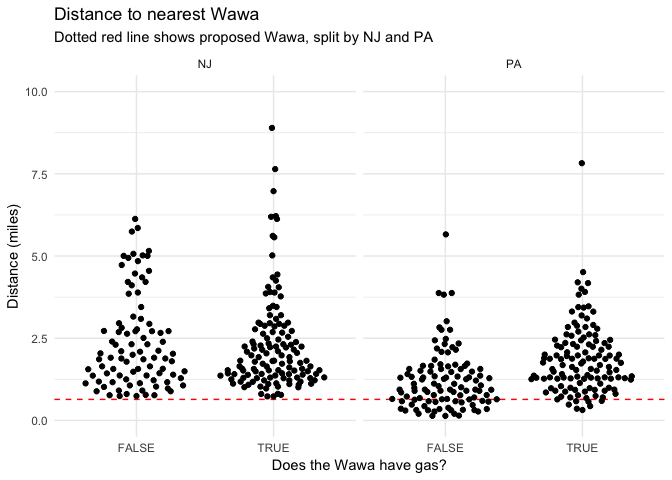
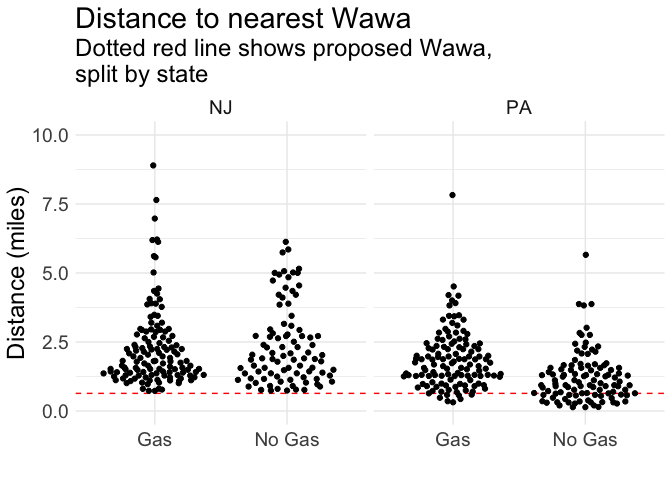
make read better

diff --git a/wawa_report.md b/wawa_report.md
@@ -18,19 +18,6 @@ There are also two other Wawa locations already in close proximity.
 -   Are other Super Wawa locations in similar areas?
 -   Are other Super Wawa locations this close to other Wawas?
 
-``` r
-# Load in data previously generated by '01_wawadata.R', '03_osmdata.R'
-wawa_df <- readRDS('data/wawa_df.Rds')
-osm_df <- readRDS('data/osm_df.Rds')
-
-# Have col names lat state city in both
-wawa_osm <- cbind(rename(wawa_df, lat_wawa = lat, lon_wawa = long, state_ab = state), 
-                  rename(osm_df, osm_city = city))
-
-wawa_osm$maxspeed_num <- as.numeric(gsub(" mph","",wawa_osm$maxspeed))
-wawa_osm$lanes_num <- as.numeric(wawa_osm$lanes)
-```
-
 Step 1: Query data on Wawa locations in Northeast
 -------------------------------------------------
 
@@ -42,26 +29,10 @@ Retrieved the Wawa locations from wawa.com for the area around Glenside, PA. *Re
 
 Here is a map of all the locations in the dataset:
 
-``` r
-mapdf <- wawa_df[,c("long","lat")]
-mapdf$new <- c(rep("exists",nrow(wawa_df)-1),"new")
-
-# getting the map
-mapgilbert <- get_map(location = c(lon = mean(mapdf$long), lat = mean(mapdf$lat)), zoom = 8,
-                      maptype = "hybrid", scale = 2)
-```
-
     ## Source : https://maps.googleapis.com/maps/api/staticmap?center=39.985222,-75.074544&zoom=8&size=640x640&scale=2&maptype=hybrid&language=en-EN&key=xxx
 
     ## Warning in strptime(x, fmt, tz = "GMT"): unknown timezone 'zone/tz/2019a.
     ## 1.0/zoneinfo/America/New_York'
-
-``` r
-# plotting the map with some points on it
-ggmap(mapgilbert) +
-  geom_point(data = mapdf, aes(x = long, y = lat, fill = new, alpha = 0.9), size = 2, shape = 21) +
-  guides(fill=FALSE, alpha=FALSE, size=FALSE)
-```
 
 ![](wawa_report_files/figure-markdown_github-ascii_identifiers/unnamed-chunk-2-1.png)
 
@@ -69,25 +40,7 @@ ggmap(mapgilbert) +
 
 The proposed Wawa is at [200 S Easton Rd.](https://www.google.com/maps/place/200+S+Easton+Rd,+Glenside,+PA+19038/@40.0986321,-75.1580774,17z/data=!3m1!4b1!4m5!3m4!1s0x89c6ba0ab50e862d:0xda87770daaf8ea23!8m2!3d40.098628!4d-75.1558834)
 
-``` r
-# ZOOM in on new wawa
-new_wawa <- data.frame(long = c(-75.155848, -75.155848-0.005, -75.155848+0.005),
-                       lat = c(40.098564, 40.098564-0.005, 40.098564+0.005))
-map_new <- get_map(location = c(lon = new_wawa$long[1], lat = new_wawa$lat[2]), zoom = 15,
-                      maptype = "hybrid", scale = 2)
-```
-
     ## Source : https://maps.googleapis.com/maps/api/staticmap?center=40.093564,-75.155848&zoom=15&size=640x640&scale=2&maptype=hybrid&language=en-EN&key=xxx
-
-``` r
-# plotting the map with some points on it
-ggmap(map_new) +
-  geom_point(data = new_wawa, aes(x = long, y = lat, fill = "red", alpha = 0.9), size = 2, shape = 21) +
-  guides(fill=FALSE, alpha=FALSE, size=FALSE) + 
-  scale_y_continuous(limits = c(40.098564-0.005, 40.098564+0.005)) +
-  scale_x_continuous(limits = c(-75.155848-0.005, -75.155848+0.005)) +
-  NULL
-```
 
     ## Scale for 'y' is already present. Adding another scale for 'y', which
     ## will replace the existing scale.
@@ -115,34 +68,16 @@ Step 2: Annotate Wawa locations with data from OpenStreetMaps
 -   Considered 'highway=motorways' as highways (<https://wiki.openstreetmap.org/wiki/Key:highway>)
 -   Considered 'footway=sidewalk' as sidewalks
 
-*These results could be sensitive to the area selected. Here I used a 0.01 degree latitude and longitude rectangle centered around the location. This is approximately a 0.69 x 0.53 mile rectangle. See above map for the area around the proposed Wawa as an example.*
+*These results could be sensitive to the size of the area selected. Here I used a 0.01 degree latitude and longitude rectangle centered around the location. This is approximately a 0.69 x 0.53 mile rectangle. See above map for the area around the proposed Wawa as an example.*
 
-Results: The new Wawa will be close to other Wawa locations
------------------------------------------------------------
+Results: The new Wawa will be unusually close to another Wawa location
+----------------------------------------------------------------------
 
 The distance to the nearest Wawa from each Wawa location was calculated in meters. The shortest distance between the Wawa coordinates was calculated according to the 'Vincenty (ellipsoid)' method as implemented in the 'geosphere' R package.
-
-``` r
-new_dist <- wawa_df$min_dist_wawa[wawa_df$storeName=="NEW"]
-```
 
 The closest Wawa to the proposed location will be 1028.0010513 meters from the nearest Wawa. That is 0.6387718 miles.
 
 The median distance between locations is 2645.1198825 meters.
-
-``` r
-wawa_df %>% filter(state %in% c("NJ","PA")) %>% 
-  ggplot(aes(x=fuel, y=min_dist_wawa/1609.34)) + 
-  geom_hline(yintercept = new_dist/1609.34, color="red", linetype = 2) + 
-  # geom_boxplot(outlier.shape = NA) + geom_jitter(height = 0, width = 0.2, alpha=0.5) + 
-  ggbeeswarm::geom_quasirandom() + 
-  facet_wrap(~state) +
-  ylim(c(0,10)) +
-  labs(title = "Distance to nearest Wawa", 
-       subtitle = "Dotted red line shows proposed Wawa, split by NJ and PA",
-       y="Distance (miles)", x="Does the Wawa have gas?")+
-  theme_minimal()
-```
 
     ## Warning: Removed 2 rows containing missing values (position_quasirandom).
 
@@ -155,43 +90,25 @@ Results: Most Wawa locations with gas are on higher speed roads
 
 This is imperfect because the OpenStreetMap data was missing for some roads and the roads might be a driveway or service road off a larger (higher speed) road.
 
-``` r
-wawa_osm %>% filter(state_ab %in% c("NJ","PA"), !is.na(maxspeed_num)) %>% 
-  ggplot(aes(y = maxspeed_num, x=fuel)) + 
-  geom_hline(yintercept = 25, color="red", linetype = 2) + 
-  # geom_boxplot(outlier.shape = NA) + 
-  # geom_jitter(height = 0, width = 0.2, alpha=0.5) + 
-  ggbeeswarm::geom_quasirandom() + 
-  facet_wrap(~state_ab) +
-  labs(title = "Speed Limits", 
-       subtitle = "Dotted red line shows proposed Wawa, split by NJ and PA",
-       y="Max Speed Limit (mph)", x="Does the Wawa have gas?")+
-  theme_minimal()
-```
+From this data, I do see that locations with gas are on higher speed limit roads.
 
 ![](wawa_report_files/figure-markdown_github-ascii_identifiers/unnamed-chunk-6-1.png)
 
 Results: Most Wawa locations are in less residential/walkable areas
 -------------------------------------------------------------------
 
-Here, I use the number of sidewalks from OpenStreetMaps as a surrogate measure of the area's walkability. The proposed Wawa area has 25 marked sidewalks.
+Here, I use the number of sidewalks from OpenStreetMaps as a surrogate measure of the area's walkability. The proposed Wawa area has **25** sidewalks.
 
 -   28/485 \[5.8%\] current Wawa locations have as many or more sidewalks than the proposed site
 -   Of these 28, 13 have gas
 -   Of these 28, 10 are in Philadelphia
 
-``` r
-with(wawa_df[wawa_df$storeName!="NEW",], table(fuel,sidewalk_count>=25, exclude = NULL))
-```
+<!-- -->
 
-    ##        
-    ## fuel    FALSE TRUE
-    ##   FALSE   190   15
-    ##   TRUE    267   13
-
-``` r
-wawa_df[wawa_df$storeName!="NEW" & wawa_df$sidewalk_count>=25,] %>% count(city,sort=T)
-```
+    ##          
+    ## gas_label FALSE TRUE
+    ##    Gas      267   13
+    ##    No Gas   190   15
 
     ## # A tibble: 17 x 2
     ##    city             n
